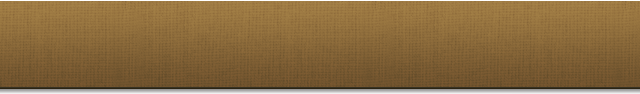
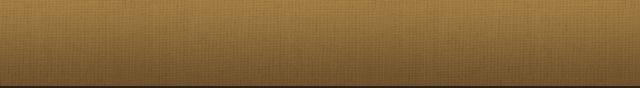
Fixed annoying 1px white line on some screens. The size of the navbar image was incorrect an shouldn't have included the shadow in the image. Need to set a specific UINavigationBar appearance property.

Changed region(s): [[0.0, 0.9091, 1.0, 1.0], [0.0, 0.0, 1.0, 0.0227]]

diff --git a/Sprouts/IngredientInfoViewController.m b/Sprouts/IngredientInfoViewController.m
@@ -43,7 +43,7 @@
     PFObject *ingredient = [[Utility sharedInstance] getCurrentIngredient];
     
     //set the banner
-    [headerText setFont:[UIFont fontWithName:@"MuseoSans-500" size:14.0]];
+    [headerText setFont:[[Utility sharedInstance] bannerFont]];
     [[headerView superview] bringSubviewToFront:headerView];
     [headerText setText:[NSString stringWithFormat:@"ALL ABOUT %@", [[ingredient objectForKey:@"name"] uppercaseString]]];
     
@@ -60,8 +60,8 @@
     //description text
     UITextView *descriptionText = [[UITextView alloc] initWithFrame:CGRectMake(0, 0, width, 0)];
     descriptionText.text = [ingredient objectForKey:@"description"];
-    [descriptionText setFont:[UIFont fontWithName:@"MuseoSans-300" size:14.0]];
-    [descriptionText setTextColor:[UIColor colorWithRed:(102/255.0) green:(102/255.0) blue:(102/255.0) alpha:1.0]];
+    [descriptionText setFont:[[Utility sharedInstance] bodyFont]];
+    [descriptionText setTextColor:[[Utility sharedInstance] greyColor]];
     [descriptionText setUserInteractionEnabled:NO];
     [descriptionText setBackgroundColor:[UIColor clearColor]];
 
@@ -81,7 +81,6 @@
     //adjust y to new start point
     y += descriptionView.frame.size.height;
     
-//    NSLog(@"y postion: %i", y);
     
     //SEASON
     
@@ -91,14 +90,14 @@
     
     UILabel *seasonHeader = [[UILabel alloc] initWithFrame:CGRectMake(inset, inset, 280, headerHeight)];
     seasonHeader.text = @"In Season";
-    [seasonHeader setFont:[UIFont fontWithName:@"MuseoSans-300" size:20.0]];
-    [seasonHeader setTextColor:[UIColor colorWithRed:(55/255.0) green:(140/255.0) blue:(96/255.0) alpha:1.0]];
+    [seasonHeader setFont:[[Utility sharedInstance] headerFont]];
+    [seasonHeader setTextColor:[[Utility sharedInstance] greenColor]];
     
     //season text
     UITextView *seasonText = [[UITextView alloc] initWithFrame:CGRectMake(0, inset + headerHeight, width, 0)];
     seasonText.text = [NSString stringWithFormat:@"%@ through %@", [ingredient objectForKey:@"seasonStart"], [ingredient objectForKey:@"seasonEnd"]];
-    [seasonText setFont:[UIFont fontWithName:@"MuseoSans-300" size:14.0]];
-    [seasonText setTextColor:[UIColor colorWithRed:(102/255.0) green:(102/255.0) blue:(102/255.0) alpha:1.0]];
+    [seasonText setFont:[[Utility sharedInstance] bodyFont]];
+    [seasonText setTextColor:[[Utility sharedInstance] greyColor]];
     [seasonText setUserInteractionEnabled:NO];
     [seasonText setBackgroundColor:[UIColor clearColor]];
     
@@ -119,7 +118,6 @@
     //adjust y to new start point
     y += seasonView.frame.size.height + padding;
     
-//    NSLog(@"y postion: %i", y);
     
     //BUYING
     
@@ -129,14 +127,14 @@
     
     UILabel *buyingHeader = [[UILabel alloc] initWithFrame:CGRectMake(inset, inset, 280, headerHeight)];
     buyingHeader.text = @"When Buying";
-    [buyingHeader setFont:[UIFont fontWithName:@"MuseoSans-300" size:20.0]];
-    [buyingHeader setTextColor:[UIColor colorWithRed:(55/255.0) green:(140/255.0) blue:(96/255.0) alpha:1.0]];
+    [buyingHeader setFont:[[Utility sharedInstance] headerFont]];
+    [buyingHeader setTextColor:[[Utility sharedInstance] greenColor]];
     
     //when buying text
     UITextView *buyingText = [[UITextView alloc] initWithFrame:CGRectMake(0, inset + headerHeight, width, 0)];
     buyingText.text = [ingredient objectForKey:@"whenBuying"];
-    [buyingText setFont:[UIFont fontWithName:@"MuseoSans-300" size:14.0]];
-    [buyingText setTextColor:[UIColor colorWithRed:(102/255.0) green:(102/255.0) blue:(102/255.0) alpha:1.0]];
+    [buyingText setFont:[[Utility sharedInstance] bodyFont]];
+    [buyingText setTextColor:[[Utility sharedInstance] greyColor]];
     [buyingText setUserInteractionEnabled:NO];
     [buyingText setBackgroundColor:[UIColor clearColor]];
     
@@ -167,14 +165,14 @@
     
     UILabel *storingHeader = [[UILabel alloc] initWithFrame:CGRectMake(inset, inset, 280, headerHeight)];
     storingHeader.text = @"Storing";
-    [storingHeader setFont:[UIFont fontWithName:@"MuseoSans-300" size:20.0]];
-    [storingHeader setTextColor:[UIColor colorWithRed:(55/255.0) green:(140/255.0) blue:(96/255.0) alpha:1.0]];
+    [storingHeader setFont:[[Utility sharedInstance] headerFont]];
+    [storingHeader setTextColor:[[Utility sharedInstance] greenColor]];
     
     //when buying text
     UITextView *storingText = [[UITextView alloc] initWithFrame:CGRectMake(0, inset + headerHeight, width, 0)];
     storingText.text = [ingredient objectForKey:@"storing"];
-    [storingText setFont:[UIFont fontWithName:@"MuseoSans-300" size:14.0]];
-    [storingText setTextColor:[UIColor colorWithRed:(102/255.0) green:(102/255.0) blue:(102/255.0) alpha:1.0]];
+    [storingText setFont:[[Utility sharedInstance] bodyFont]];
+    [storingText setTextColor:[[Utility sharedInstance] greyColor]];
     [storingText setUserInteractionEnabled:NO];
     [storingText setBackgroundColor:[UIColor clearColor]];
     
@@ -195,7 +193,6 @@
     //adjust y to new start point
     y += storingView.frame.size.height + padding;
     
-//    NSLog(@"y postion: %i", y);
     
     //PAIRS WITH
     
@@ -205,14 +202,14 @@
     
     UILabel *pairsHeader = [[UILabel alloc] initWithFrame:CGRectMake(inset, inset, 280, headerHeight)];
     pairsHeader.text = @"Pairs With";
-    [pairsHeader setFont:[UIFont fontWithName:@"MuseoSans-300" size:20.0]];
-    [pairsHeader setTextColor:[UIColor colorWithRed:(55/255.0) green:(140/255.0) blue:(96/255.0) alpha:1.0]];
+    [pairsHeader setFont:[[Utility sharedInstance] headerFont]];
+    [pairsHeader setTextColor:[[Utility sharedInstance] greenColor]];
     
     //when buying text
     UITextView *pairsText = [[UITextView alloc] initWithFrame:CGRectMake(0, inset + headerHeight, width, 0)];
     pairsText.text = [[ingredient objectForKey:@"pairsWith"] componentsJoinedByString:@", "];
-    [pairsText setFont:[UIFont fontWithName:@"MuseoSans-300" size:14.0]];
-    [pairsText setTextColor:[UIColor colorWithRed:(102/255.0) green:(102/255.0) blue:(102/255.0) alpha:1.0]];
+    [pairsText setFont:[[Utility sharedInstance] bodyFont]];
+    [pairsText setTextColor:[[Utility sharedInstance] greyColor]];
     [pairsText setUserInteractionEnabled:NO];
     [pairsText setBackgroundColor:[UIColor clearColor]];
     
@@ -233,8 +230,6 @@
     //adjust y to new start point
     y += pairsView.frame.size.height + padding;
     
-//    NSLog(@"y postion: %i", y);
-    
     //PREPARATION
     
     //container uiview
@@ -243,14 +238,14 @@
     
     UILabel *preparationHeader = [[UILabel alloc] initWithFrame:CGRectMake(inset, inset, 280, headerHeight)];
     preparationHeader.text = @"Preparation";
-    [preparationHeader setFont:[UIFont fontWithName:@"MuseoSans-300" size:20.0]];
-    [preparationHeader setTextColor:[UIColor colorWithRed:(55/255.0) green:(140/255.0) blue:(96/255.0) alpha:1.0]];
+    [preparationHeader setFont:[[Utility sharedInstance] headerFont]];
+    [preparationHeader setTextColor:[[Utility sharedInstance] greenColor]];
     
     //when buying text
     UITextView *preparationText = [[UITextView alloc] initWithFrame:CGRectMake(0, inset + headerHeight, width, 0)];
     preparationText.text = [[ingredient objectForKey:@"preparation"] componentsJoinedByString:@", "];
-    [preparationText setFont:[UIFont fontWithName:@"MuseoSans-300" size:14.0]];
-    [preparationText setTextColor:[UIColor colorWithRed:(102/255.0) green:(102/255.0) blue:(102/255.0) alpha:1.0]];
+    [preparationText setFont:[[Utility sharedInstance] bodyFont]];
+    [preparationText setTextColor:[[Utility sharedInstance] greyColor]];
     [preparationText setUserInteractionEnabled:NO];
     [preparationText setBackgroundColor:[UIColor clearColor]];
     
@@ -271,8 +266,6 @@
     //adjust y to new start point
     y += preparationView.frame.size.height + padding;
     
-//    NSLog(@"y postion: %i", y);
-    
     //SUBSTITUTES
     
     //container uiview
@@ -281,14 +274,14 @@
     
     UILabel *subsHeader = [[UILabel alloc] initWithFrame:CGRectMake(inset, inset, 280, headerHeight)];
     subsHeader.text = @"Substitutes";
-    [subsHeader setFont:[UIFont fontWithName:@"MuseoSans-300" size:20.0]];
-    [subsHeader setTextColor:[UIColor colorWithRed:(55/255.0) green:(140/255.0) blue:(96/255.0) alpha:1.0]];
+    [subsHeader setFont:[[Utility sharedInstance] headerFont]];
+    [subsHeader setTextColor:[[Utility sharedInstance] greenColor]];
     
     //when buying text
     UITextView *subsText = [[UITextView alloc] initWithFrame:CGRectMake(0, inset + headerHeight, width, 0)];
     subsText.text = [[ingredient objectForKey:@"substitutes"] componentsJoinedByString:@", "];
-    [subsText setFont:[UIFont fontWithName:@"MuseoSans-300" size:14.0]];
-    [subsText setTextColor:[UIColor colorWithRed:(102/255.0) green:(102/255.0) blue:(102/255.0) alpha:1.0]];
+    [subsText setFont:[[Utility sharedInstance] bodyFont]];
+    [subsText setTextColor:[[Utility sharedInstance] greyColor]];
     [subsText setUserInteractionEnabled:NO];
     [subsText setBackgroundColor:[UIColor clearColor]];
     

diff --git a/Sprouts/Utility.m b/Sprouts/Utility.m
@@ -24,6 +24,13 @@ static Utility *_sharedInstance;
         [query includeKey:@"ingredient"];
         currentWeek = [query getFirstObject];
         currentIngredient = [currentWeek objectForKey:@"ingredient"];
+        
+        bannerFont = [UIFont fontWithName:@"MuseoSans-500" size:14.0];
+        headerFont = [UIFont fontWithName:@"MuseoSans-300" size:20.0];
+        bodyFont = [UIFont fontWithName:@"MuseoSans-300" size:14.0];
+        
+        greenColor = [UIColor colorWithRed:(55/255.0) green:(140/255.0) blue:(96/255.0) alpha:1.0];
+        greyColor = [UIColor colorWithRed:(102/255.0) green:(102/255.0) blue:(102/255.0) alpha:1.0];
 	}
 	return self;
 }
@@ -44,6 +51,26 @@ static Utility *_sharedInstance;
 
 - (PFObject *)getCurrentIngredient {
     return currentIngredient;
+}
+
+- (UIFont *)bannerFont {
+    return bannerFont;
+}
+
+- (UIFont *)headerFont {
+    return headerFont;
+}
+
+- (UIFont *)bodyFont {
+    return bodyFont;
+}
+
+- (UIColor *)greenColor {
+    return greenColor;
+}
+
+- (UIColor *)greyColor {
+    return greyColor;
 }
 
 #pragma mark Activities

diff --git a/Sprouts/AppDelegate.m b/Sprouts/AppDelegate.m
@@ -35,8 +35,9 @@
     
     // Nav bar appearance
     [[UIApplication sharedApplication]setStatusBarStyle:UIStatusBarStyleBlackOpaque animated:NO];
-    UIImage *navBar = [UIImage imageNamed:@"nav_bar.png"];
+    UIImage *navBar = [UIImage imageNamed:@"nav_bar"];
     [[UINavigationBar appearance]setBackgroundImage:navBar forBarMetrics:UIBarMetricsDefault];
+    [[UINavigationBar appearance] setShadowImage:[UIImage imageNamed:@"nav_bar_shadow"]];
     [[UINavigationBar appearance] setTitleTextAttributes: @{
                                 UITextAttributeTextColor: [UIColor colorWithRed:(43/255.0) green:(36/255.0) blue:(19/255.0) alpha:1.0],
                           UITextAttributeTextShadowColor: [UIColor colorWithRed:(190/255.0) green:(155/255.0) blue:(101/255.0) alpha:1.0],

diff --git a/Sprouts/Utility.h b/Sprouts/Utility.h
@@ -13,12 +13,28 @@
 @interface Utility : NSObject {
     PFObject *currentWeek;
     PFObject *currentIngredient;
+    
+    UIFont *bannerFont;
+    UIFont *headerFont;
+    UIFont *bodyFont;
+    
+    UIColor *greenColor;
+    UIColor *greyColor;
+    
 }
 
 + (Utility *) sharedInstance;
 
 - (PFObject *)getCurrentWeek;
 - (PFObject *)getCurrentIngredient;
+
+- (UIFont *)bannerFont;
+- (UIFont *)headerFont;
+- (UIFont *)bodyFont;
+
+- (UIColor *)greenColor;
+- (UIColor *)greyColor;
+
 + (PFQuery *) queryForActivitiesOnSprout:(PFObject *)photo cachePolicy:(PFCachePolicy)cachePolicy;
 
 + (void)likeSproutInBackground:(id)photo block:(void (^)(BOOL succeeded, NSError *error))completionBlock;
